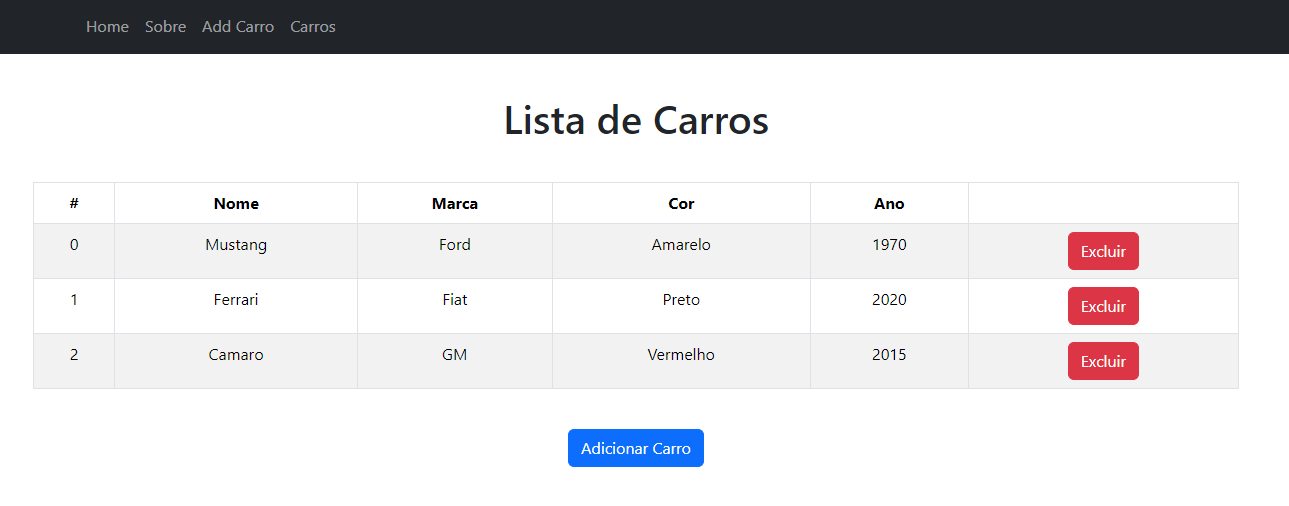
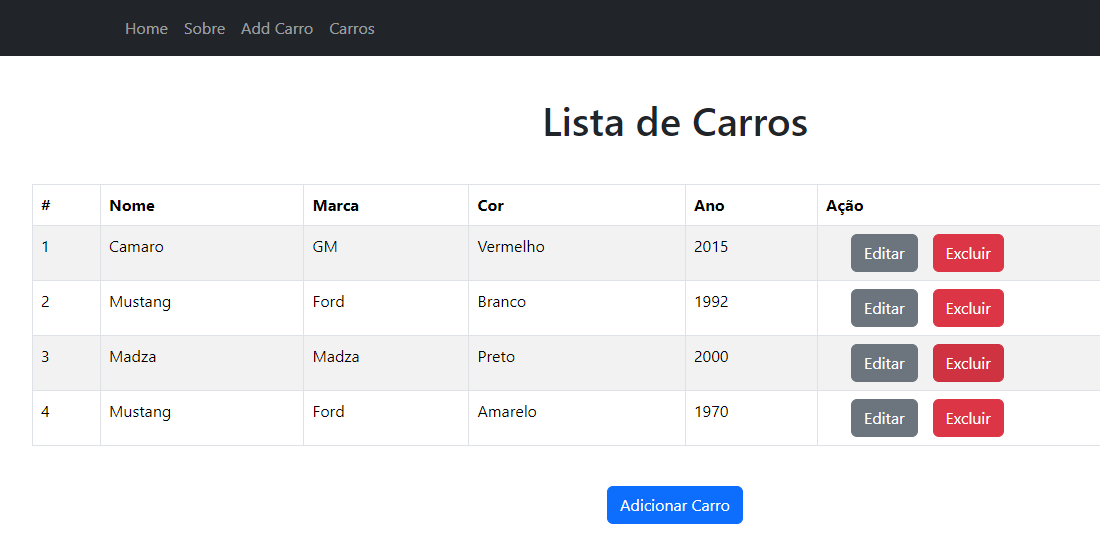
inserido botão editar na lista de carros e funçao para salvar/cancelar edição

diff --git a/src/components/CarList/CarList.js b/src/components/CarList/CarList.js
@@ -1,20 +1,46 @@
-import React from 'react';
+import React, { useState } from 'react';
 import Table from 'react-bootstrap/Table';
 import Button from 'react-bootstrap/Button';
 import { useNavigate } from 'react-router-dom';
 
 function CarList() {
     const navigate = useNavigate();
-    let cars = JSON.parse(localStorage.getItem('cars')) || [];
+    const [cars, setCars] = useState(JSON.parse(localStorage.getItem('cars')) || []);
+    const [editIndex, setEditIndex] = useState(null);
+    const [editFormData, setEditFormData] = useState({
+        nome: '',
+        marca: '',
+        cor: '',
+        ano: ''
+    });
 
     const handleAddCarClick = () => {
         navigate('/addCar');
     };
 
-    const handleDeleteCarClick = (car) => {
-        const updatedCars = cars.filter(c => c !== car);
+    const handleEditCarClick = (index) => {
+        setEditIndex(index);
+        const car = cars[index];
+        setEditFormData(car);
+    };
+
+    const handleDeleteCarClick = (index) => {
+        const updatedCars = cars.filter((_, i) => i !== index);
+        setCars(updatedCars);
         localStorage.setItem('cars', JSON.stringify(updatedCars));
-        window.location.reload();
+    };
+
+    const handleInputChange = (e) => {
+        const { id, value } = e.target;
+        setEditFormData({ ...editFormData, [id]: value });
+    };
+
+    const handleSaveClick = (index) => {
+        const updatedCars = [...cars];
+        updatedCars[index] = editFormData;
+        setCars(updatedCars);
+        localStorage.setItem('cars', JSON.stringify(updatedCars));
+        setEditIndex(null);
     };
 
     return (
@@ -28,18 +54,97 @@ function CarList() {
                             <th>Marca</th>
                             <th>Cor</th>
                             <th>Ano</th>
-                            <th></th>
+                            <th>Ação</th>
                         </tr>
                     </thead>
                     <tbody>
                         {cars.map((car, index) => (
-                            <tr>
-                                <td>{index}</td>
-                                <td>{car.nome}</td>
-                                <td>{car.marca}</td>
-                                <td>{car.cor}</td>
-                                <td>{car.ano}</td>
-                                <td><Button variant="danger" onClick={() => handleDeleteCarClick(car)}>Excluir</Button></td>
+                            <tr key={index}>
+                                <td>{index + 1}</td>
+                                <td>
+                                    {editIndex === index ? (
+                                        <input
+                                            type="text"
+                                            id="nome"
+                                            value={editFormData.nome}
+                                            onChange={handleInputChange}
+                                        />
+                                    ) : (
+                                        car.nome
+                                    )}
+                                </td>
+                                <td>
+                                    {editIndex === index ? (
+                                        <input
+                                            type="text"
+                                            id="marca"
+                                            value={editFormData.marca}
+                                            onChange={handleInputChange}
+                                        />
+                                    ) : (
+                                        car.marca
+                                    )}
+                                </td>
+                                <td>
+                                    {editIndex === index ? (
+                                        <input
+                                            type="text"
+                                            id="cor"
+                                            value={editFormData.cor}
+                                            onChange={handleInputChange}
+                                        />
+                                    ) : (
+                                        car.cor
+                                    )}
+                                </td>
+                                <td>
+                                    {editIndex === index ? (
+                                        <input
+                                            type="number"
+                                            id="ano"
+                                            value={editFormData.ano}
+                                            onChange={handleInputChange}
+                                        />
+                                    ) : (
+                                        car.ano
+                                    )}
+                                </td>
+                                <td>
+                                    {editIndex === index ? (
+                                        <>
+                                            <Button
+                                                variant="success"
+                                                onClick={() => handleSaveClick(index)}
+                                                style={{ marginLeft: '25px', marginRight: '15px'}}
+                                            >
+                                                Salvar
+                                            </Button>
+                                            <Button
+                                                variant="secondary"
+                                                onClick={() => setEditIndex(null)}
+                                            >
+                                                Cancelar
+                                            </Button>
+                                        </>
+                                    ) : (
+                                        <>
+                                            <Button
+                                                variant="secondary"
+                                                onClick={() => handleEditCarClick(index)}
+                                                style={{ marginLeft: '25px', marginRight: '15px' }}
+                                            >
+                                                Editar
+                                            </Button>
+                                            <Button
+                                                variant="danger"
+                                                onClick={() => handleDeleteCarClick(index)}
+                                            >
+                                                Excluir
+                                            </Button>
+                                        </>
+                                    )}
+                                </td>
+
                             </tr>
                         ))}
                     </tbody>

diff --git a/README.md b/README.md
@@ -25,6 +25,8 @@ Adicionar carro:
 ![alt text](image-2.png)
 Lista de Carros:
 ![alt text](image-3.png)
+Lista de Carros:
+![alt text](image-4.png)
 
 ## Introdução
 
